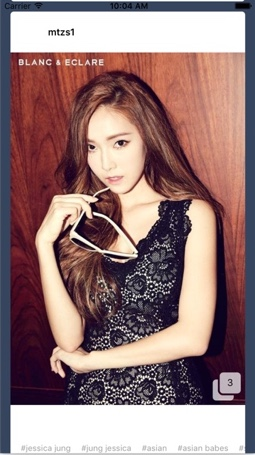
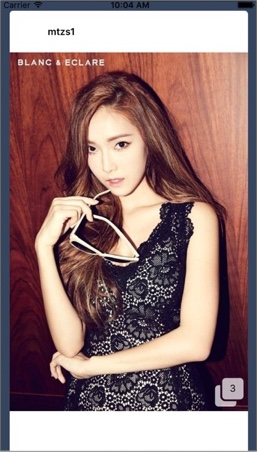
change image

diff --git a/index.html b/index.html
@@ -49,7 +49,7 @@
 			<div class="iphone-demo">
 				<div class="iphone-image">
 					<img src="img/iphone-frame.svg"/>
-					<img class="screen-image" src="img/tumblr-demo2.jpg"/>
+					<img class="screen-image" src="img/swype-demo.jpg"/>
 				</div>
 			</div>
 			<div class="feature-description">
